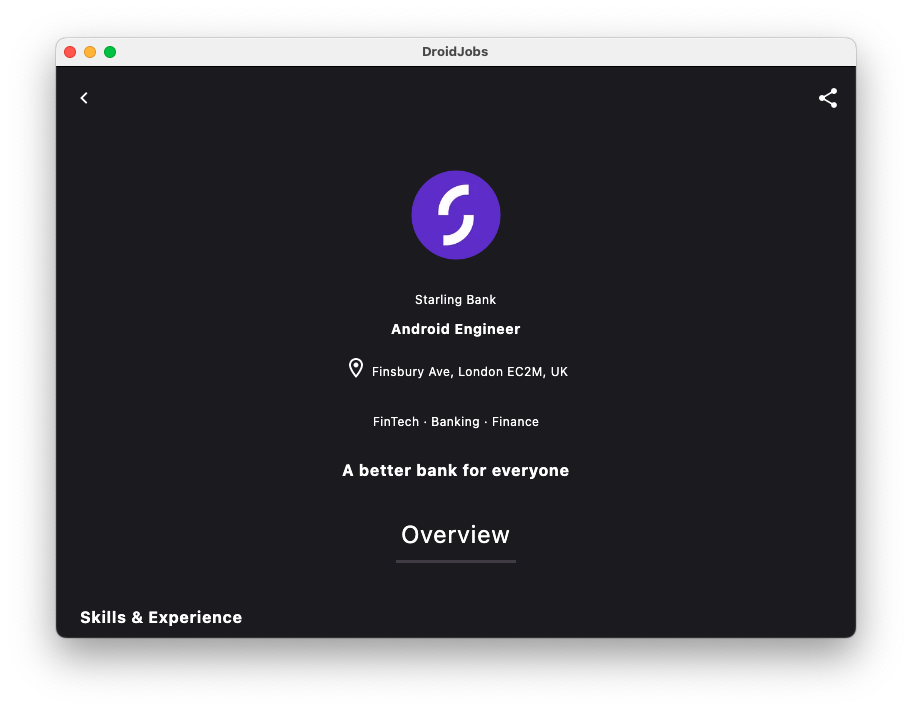
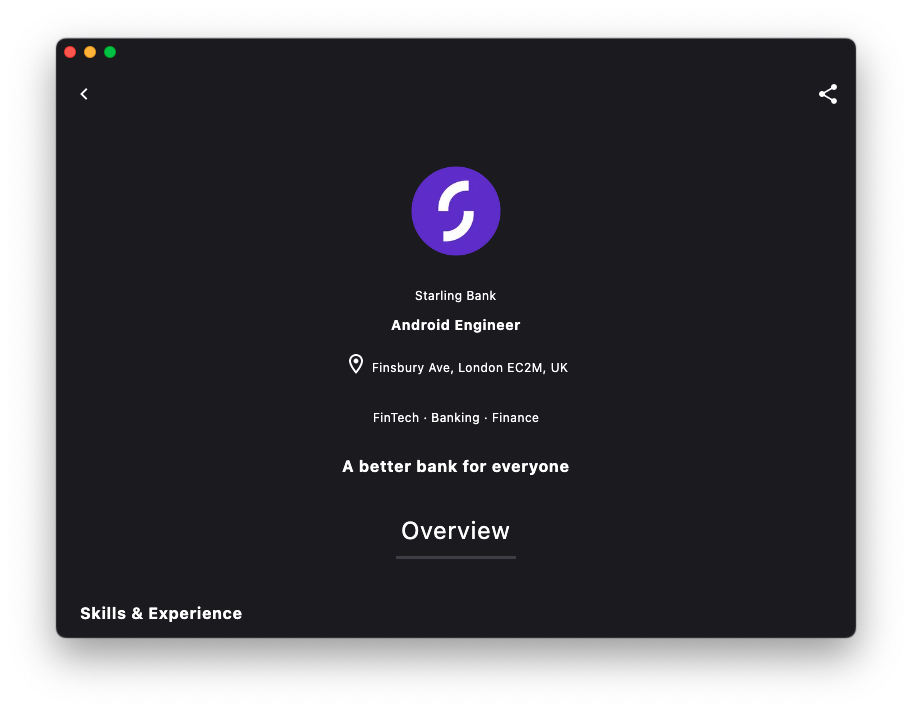
desktop window edge-to-edge added

diff --git a/composeApp/src/commonMain/kotlin/jobs/JobsScreen.kt b/composeApp/src/commonMain/kotlin/jobs/JobsScreen.kt
@@ -37,6 +37,7 @@ import androidx.compose.material3.Button
 import androidx.compose.material3.Card
 import androidx.compose.material3.CardDefaults
 import androidx.compose.material3.CircularProgressIndicator
+import androidx.compose.material3.ElevatedCard
 import androidx.compose.material3.Icon
 import androidx.compose.material3.IconButton
 import androidx.compose.material3.Scaffold
@@ -122,7 +123,7 @@ object JobsScreen : Screen {
                             key = { it.id }
                         ) { item ->
 
-                            Card(
+                            ElevatedCard(
                                 modifier = modifier
                                     .fillMaxWidth()
                                     .wrapContentHeight()
@@ -136,16 +137,16 @@ object JobsScreen : Screen {
                                     },
                                 shape = RoundedCornerShape(16.dp),
                                 colors = CardDefaults.cardColors(
-                                    containerColor = Color.Transparent
+                                    containerColor = Color(0xFF1C1C23)
                                 )
                             ) {
                                 Row(
                                     modifier = modifier
-                                        .padding(16.dp)
                                         .fillMaxSize()
                                 ) {
                                     Box(
                                         modifier = modifier
+                                            .padding(16.dp)
                                             .fillMaxWidth()
                                             .wrapContentHeight()
 //                                    .border(width = 1.dp, color = Color.White)

diff --git a/composeApp/src/commonMain/kotlin/jobs/JobDetailScreen.kt b/composeApp/src/commonMain/kotlin/jobs/JobDetailScreen.kt
@@ -46,6 +46,7 @@ import cafe.adriel.voyager.core.model.rememberScreenModel
 import cafe.adriel.voyager.core.screen.Screen
 import cafe.adriel.voyager.navigator.LocalNavigator
 import cafe.adriel.voyager.navigator.currentOrThrow
+import getPlatform
 import openUrl
 import org.jetbrains.compose.resources.ExperimentalResourceApi
 import org.jetbrains.compose.resources.painterResource
@@ -116,7 +117,10 @@ class JobDetailScreen(
                     )
                 )
             },
-            containerColor = Color(0xFF1C1C23)
+            containerColor = Color(0xFF1C1C23),
+            modifier = modifier.padding(
+                top = if (getPlatform().name == "Desktop") 24.dp else 0.dp
+            )
         ) { paddingValues ->
             Box(
                 modifier = modifier.padding(paddingValues)

diff --git a/composeApp/src/jvmMain/kotlin/main.kt b/composeApp/src/jvmMain/kotlin/main.kt
@@ -1,0 +1,22 @@
+import androidx.compose.desktop.ui.tooling.preview.Preview
+import androidx.compose.runtime.Composable
+import androidx.compose.ui.window.Window
+import androidx.compose.ui.window.application
+
+fun main() = application {
+    Window(
+        onCloseRequest = ::exitApplication,
+        title = "DroidJobs"
+    ) {
+        window.rootPane.putClientProperty("apple.awt.fullWindowContent", true)
+        window.rootPane.putClientProperty("apple.awt.transparentTitleBar", true)
+        window.rootPane.putClientProperty("apple.awt.windowTitleVisible", false)
+        App()
+    }
+}
+
+@Preview
+@Composable
+fun AppDesktopPreview() {
+    App()
+}

diff --git a/composeApp/src/iosMain/kotlin/Platform.ios.kt b/composeApp/src/iosMain/kotlin/Platform.ios.kt
@@ -1,7 +1,7 @@
 import platform.UIKit.UIDevice
 
 class IOSPlatform: Platform {
-    override val name: String = UIDevice.currentDevice.systemName() + " " + UIDevice.currentDevice.systemVersion
+    override val name: String = "IOS"
 }
 
 actual fun getPlatform(): Platform = IOSPlatform()

diff --git a/composeApp/src/androidMain/kotlin/Platform.android.kt b/composeApp/src/androidMain/kotlin/Platform.android.kt
@@ -1,7 +1,7 @@
 import android.os.Build
 
 class AndroidPlatform : Platform {
-    override val name: String = "Android ${Build.VERSION.SDK_INT}"
+    override val name: String = "Android"
 }
 
 actual fun getPlatform(): Platform = AndroidPlatform()

diff --git a/composeApp/src/jvmMain/kotlin/Platform.jvm.kt b/composeApp/src/jvmMain/kotlin/Platform.jvm.kt
@@ -1,5 +1,5 @@
 class JVMPlatform: Platform {
-    override val name: String = "Java ${System.getProperty("java.version")}"
+    override val name: String = "Desktop"
 }
 
 actual fun getPlatform(): Platform = JVMPlatform()

diff --git a/composeApp/src/commonMain/kotlin/jobs/Jobs.kt b/composeApp/src/commonMain/kotlin/jobs/Jobs.kt
@@ -1,5 +1,6 @@
 package jobs
 
+import androidx.compose.runtime.Immutable
 import org.jetbrains.compose.resources.DrawableResource
 import org.jetbrains.compose.resources.ExperimentalResourceApi
 

diff --git a/composeApp/src/jvmMain/kotlin/App.jvm.kt b/composeApp/src/jvmMain/kotlin/App.jvm.kt
@@ -1,4 +1,3 @@
 
-
 actual fun openUrl(url: String?) {
 }
